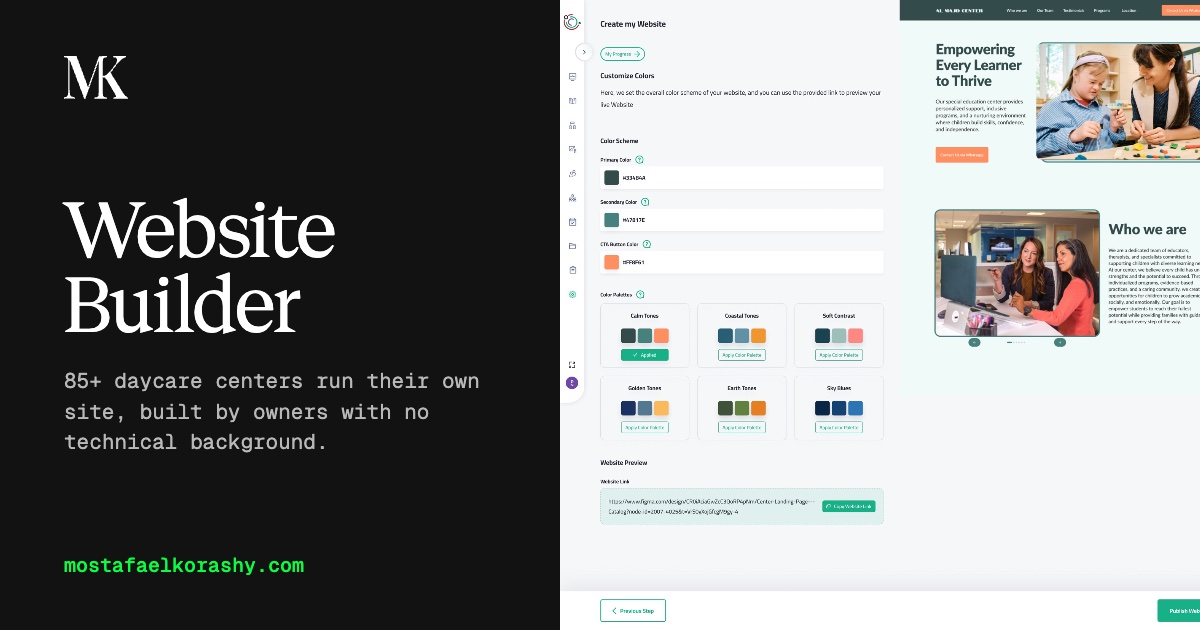
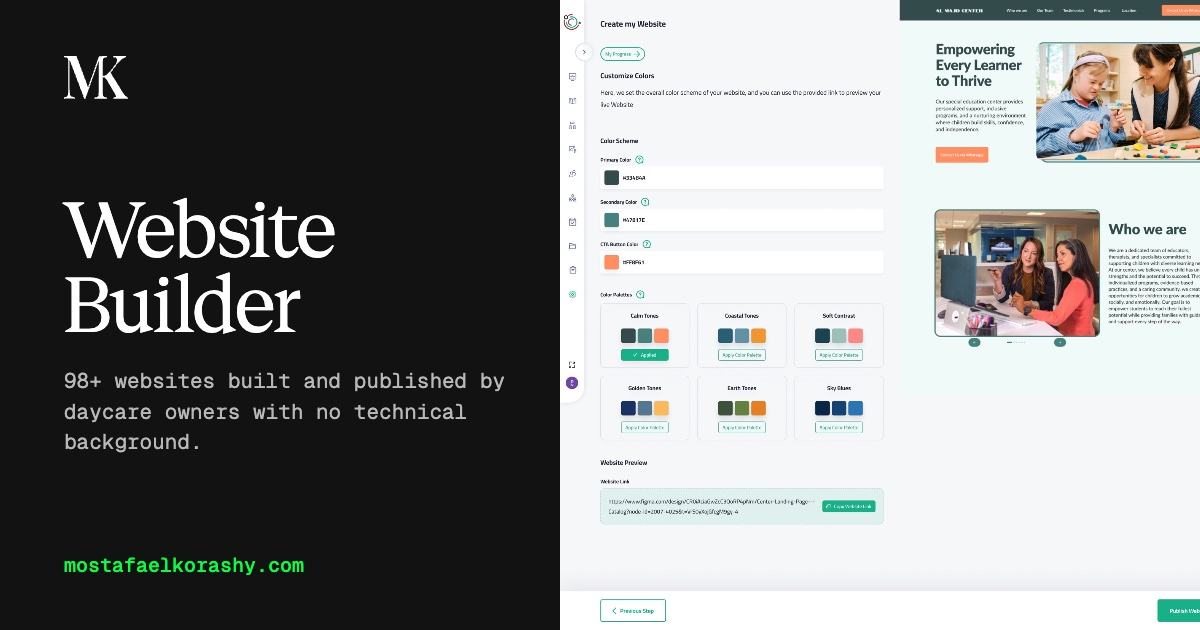
Website Builder outcome: 98+ websites
Stat 85+ -> 98+, and the sentence now leads with websites: "websites
built and published by daycare and center owners with no technical
background." Updated the preview card and description to match.

Changed region(s): [[0.0617, 0.573, 0.4317, 0.6635], [0.0308, 0.6937, 0.2775, 0.7238]]

diff --git a/website-builder.html b/website-builder.html
@@ -17,8 +17,8 @@
   <meta property="og:site_name" content="Mostafa Elkorashy" />
   <meta property="og:url" content="https://mostafaelkorashy.com/website-builder" />
   <meta property="og:title" content="Website Builder — Mostafa Elkorashy" />
-  <meta property="og:description" content="85+ daycare centers run their own website, built by owners with no technical background." />
-  <meta property="og:image" content="https://mostafaelkorashy.com/assets/images/og/og-website-builder.jpg" />
+  <meta property="og:description" content="98+ websites built and published by daycare and center owners with no technical background." />
+  <meta property="og:image" content="https://mostafaelkorashy.com/assets/images/og/og-website-builder.jpg?v=3" />
   <meta property="og:image:width" content="1200" />
   <meta property="og:image:height" content="630" />
   <meta property="og:image:alt" content="Website Builder case study: color customization with a live site preview" />
@@ -111,8 +111,8 @@
 
     <section class="section gap cs-outcome" aria-label="Outcome">
       <h2 class="cs-heading g" style="--c: 2 / span 6; --r: 1" data-snap>Outcome</h2>
-      <div class="cs-cell cs-stat g" style="--c: 2 / 5; --r: 3" data-snap>85+</div>
-      <div class="cs-cell cs-small g" style="--c: 6 / 11; --r: 3" data-snap><p>centers and daycares now run their own website, built by owners with no technical background.</p></div>
+      <div class="cs-cell cs-stat g" style="--c: 2 / 5; --r: 3" data-snap>98+</div>
+      <div class="cs-cell cs-small g" style="--c: 6 / 11; --r: 3" data-snap><p>websites built and published by daycare and center owners with no technical background.</p></div>
     </section>
 
     <nav class="section gap cs-next" aria-label="Next project">

diff --git a/styles.css b/styles.css
@@ -738,7 +738,7 @@ a.hero-name { text-decoration: none; } /* case studies: the name links home */
     height: calc(var(--rows, 1) * var(--cell) - var(--lead, 0px)) !important;
   }
   .cs-pillar-label { box-shadow: inset 0 1px var(--color-grid-line); }
-  /* Outcome: the stat (OPEN SOURCE / 85+) and its text are one block */
+  /* Outcome: the stat (OPEN SOURCE / 98+) and its text are one block */
   .cs-outcome > .cs-stat {
     height: auto !important;
     padding-top: 24px; padding-bottom: 0; /* the block has room to spare, so breathe */

diff --git a/portfolio-design-tokens.md b/portfolio-design-tokens.md
@@ -1203,7 +1203,7 @@ Source: two Figma PDF exports (**Visual Brain**, 1440 × 10441, and **Website Bu
 4. **Headings are typed in sentence case and shown in capitals** ("Visual brain", "The problem", "structure", "3000px → 440px"): the Figma text case is set to Upper (or CSS `text-transform: uppercase`). This also answers the open "typed or transformed?" question for the main-page headings, which are very likely the same.
 5. **Text sits in `#1F1F1F` cells, inset 16px left and right, vertically centered in its row**, except where stated (meta group, special-section text: top-aligned with 16px). Centering was checked on about 12 text blocks to within 1px.
 6. **Labels and titles in the cells are typed in sentence case too** ("Role & Company", "Local first", "Export for Claude") and shown in capitals.
-7. **Hand-sized cells.** Some cells are one cell wider than the rule gives ("SEO settings" title, the "85+" stat). Treat the cell counts below as the design, not as a computed value.
+7. **Hand-sized cells.** Some cells are one cell wider than the rule gives ("SEO settings" title, the "98+" stat). Treat the cell counts below as the design, not as a computed value.
 
 ### Page row map (Visual Brain; Website Builder differences in the next table)
 
@@ -1267,7 +1267,7 @@ R87          empty last row; page height 10441 = 1 + 87 × 120 ✓
 | Approach statement | 1 line | 3 lines |
 | Structure items | Capture, Folders, **AI analysis (full width)**, Browsing, Export for Claude | Basic information, Website setup, **Adding content (full width)**, Color customization, SEO settings |
 | Special section | R60 (9 cells), text box R62–65, image R67–72 (720 tall) | R60 (10 cells, **116px** type so it fits), text R62 (9 cells, 1 row), image R64–70 (**840 tall**) |
-| Outcome | stat "OPEN SOURCE" (2 lines), description cols 7–11 | stat "85+" (1 line), description cols 6–10 |
+| Outcome | stat "OPEN SOURCE" (2 lines), description cols 7–11 | stat "98+" (1 line), description cols 6–10 |
 | Next project | R81–82, link 10 cells | R77–78, link 9 cells (text ends X1112) |
 | Footer | R84–86 | R80–82, then 1 empty row |
 
@@ -1299,7 +1299,7 @@ Text styles are **confirmed from Figma** (Visual Brain, one layer of each kind).
 | Structure item title ("Capture") | 136, 3405 · 183 × 31 | Medium 500 24, -2%, uppercase | `#B8B8B8` |
 | Structure item text | 136, 3506 · 564 fixed × 69 (3 lines) | Regular 18, -2% (Mono Text) | `#B8B8B8` |
 | Special section text | 136, 7337 · 928 fixed × 416 (16px inset; 960 − 32 = 928 ✓; top-aligned) | Medium 500 20, -2%; the three sub-heads ("Resized once, cached" …) are **Bold 700 20, -2%** | text `#B8B8B8`, sub-heads `#FFFFFF` |
-| Outcome stat ("OPEN SOURCE", "85+") | 136, 9135 · 420 × 222 (2 lines, 111 apart) | Light 300 120 / 111 / -2%, uppercase | `#B8B8B8` |
+| Outcome stat ("OPEN SOURCE", "98+") | 136, 9135 · 420 × 222 (2 lines, 111 apart) | Light 300 120 / 111 / -2%, uppercase | `#B8B8B8` |
 | Outcome description | 736, 9278 · 560 fixed × 46 (R78, centered; Website Builder X616) | Regular 18, -2% (Mono Text) | `#B8B8B8` |
 | "NEXT PROJECT" label | 136, 9649 · 126 × 23 (`12 × 10.44 = 125` ✓) | Regular 18, -2%, uppercase (Mono Text) | `#B8B8B8` |
 | Next-project link | 136, 9725 · 1200 fixed × 111 | Light 300 120 / 111 / **-3%**, uppercase; ends with the character "↗" | `#FFFFFF` |
@@ -1323,7 +1323,7 @@ Both case studies fill the same fields:
 | Approach | 1 statement + 3 pillars (label + 3-line text) | 1 paragraph + 3 pillars |
 | Structure | 5 items, each a title, a text and an image | 5 items |
 | Special section | "3000px → 440px": 2 paragraphs + 3 bold sub-heads | "3 layouts × 3 styles": 1 paragraph |
-| Outcome | stat "OPEN SOURCE", text "Free for any designer to use, or to take apart." and the placeholder "[Link to the repo]" | stat "85+", text "centers and daycares now run their own website, built by owners with no technical background." |
+| Outcome | stat "OPEN SOURCE", text "Free for any designer to use, or to take apart." and the placeholder "[Link to the repo]" | stat "98+", text "websites built and published by daycare and center owners with no technical background." |
 | Next project | WEBSITE BUILDER ↗ | VISUAL BRAIN ↗ |
 
 The full copy is in the two PDFs (and `case-studies/visual-brain.md`). The numbered images 1 to 7 map to the text in order: 1 hero, 2 to 6 the five structure items, 7 the special section.
